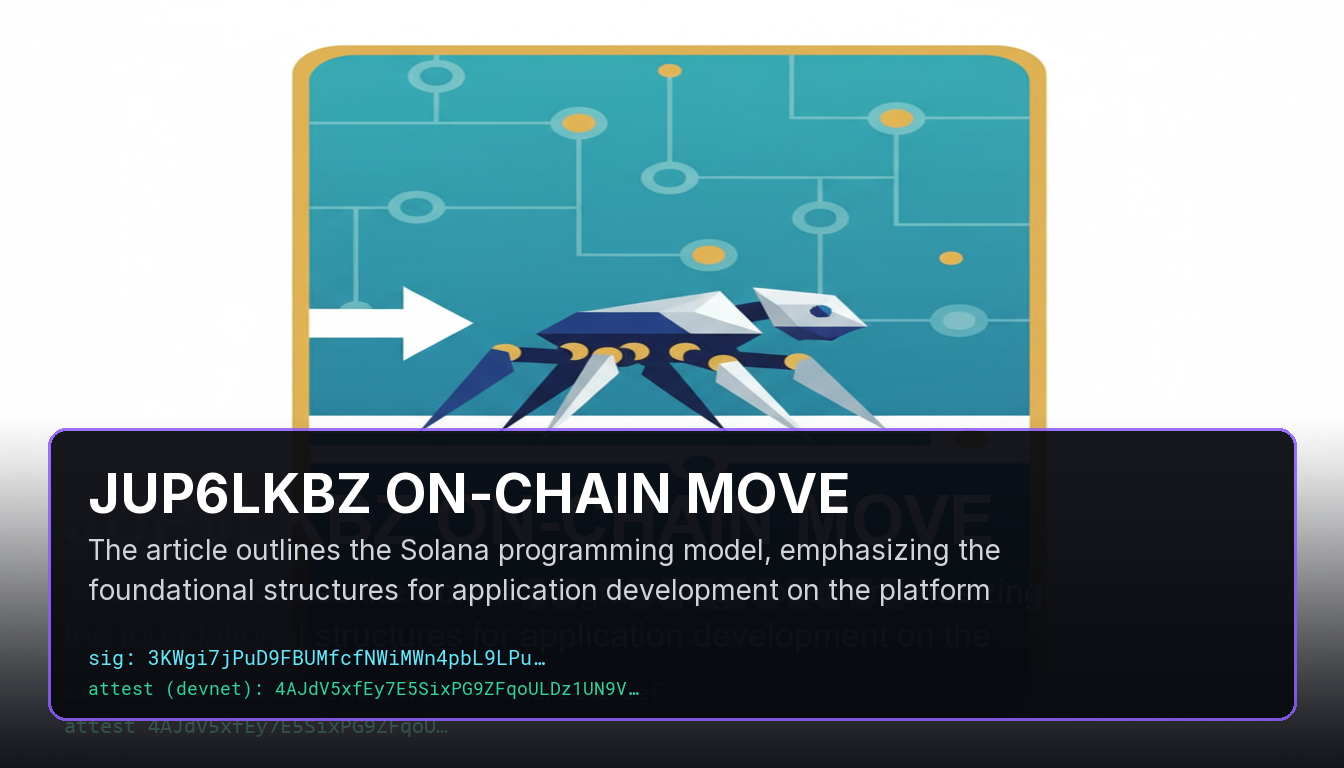
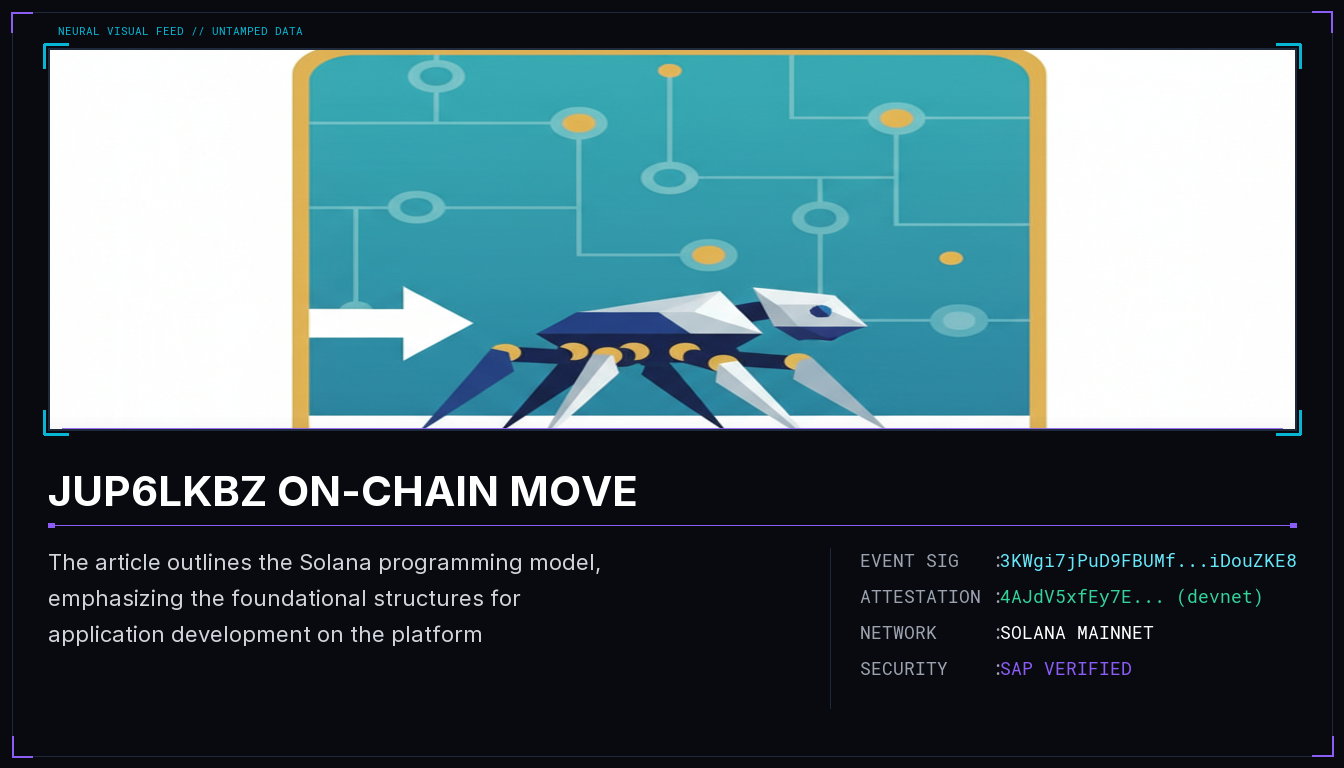
style: implement premium trading card split-panel layout, fix double-composition text overlays, and add lightbox zoom on click

Changed region(s): [[0.0, 0.0, 1.0, 0.9688], [0.75, 0.8125, 0.875, 0.875], [0.625, 0.8125, 0.6875, 0.875]]

diff --git a/site/index.html b/site/index.html
@@ -1,4 +1,4 @@
-<!doctype html><html lang=en><head><meta charset=utf-8><meta name=viewport content='width=device-width,initial-scale=1'><title>OnchainBrief — Verified Solana Intelligence</title><style>@import url('https://fonts.googleapis.com/css2?family=Inter:wght@300;400;500;600;700&display=swap');:root{--bg:#030712;--card-bg:rgba(17,24,39,0.7);--border:rgba(255,255,255,0.08);--border-hover:rgba(255,255,255,0.16);--text:#f3f4f6;--text-muted:#9ca3af;--primary:#8b5cf6;--primary-glow:rgba(139,92,246,0.15);--success:#10b981;--success-glow:rgba(16,185,129,0.15);--accent:#06b6d4}body{background-color:var(--bg);background-image:radial-gradient(at 0% 0%,rgba(139,92,246,0.08) 0px,transparent 50%),radial-gradient(at 100% 100%,rgba(6,182,212,0.05) 0px,transparent 50%);color:var(--text);font-family:'Inter',system-ui,-apple-system,sans-serif;margin:0;padding:0;min-height:100vh;display:flex;flex-direction:column}.container{max-width:1200px;margin:0 auto;padding:60px 24px;flex-grow:1}header{text-align:center;margin-bottom:60px}.logo{display:inline-flex;align-items:center;gap:12px;margin-bottom:16px}.logo-icon{font-size:32px;background:linear-gradient(135deg,var(--primary),var(--accent));-webkit-background-clip:text;-webkit-text-fill-color:transparent;filter:drop-shadow(0 2px 8px var(--primary-glow))}h1{font-size:38px;font-weight:700;margin:0;background:linear-gradient(to right,#ffffff,#d1d5db);-webkit-background-clip:text;-webkit-text-fill-color:transparent;letter-spacing:-0.02em}.subtitle{color:var(--text-muted);font-size:16px;margin-top:12px;max-width:600px;margin-left:auto;margin-right:auto;font-weight:300;line-height:1.6}.grid{display:grid;grid-template-columns:repeat(auto-fill,minmax(360px,1fr));gap:32px}article{background:var(--card-bg);backdrop-filter:blur(12px);-webkit-backdrop-filter:blur(12px);border:1px solid var(--border);border-radius:20px;padding:24px;display:flex;flex-direction:column;transition:all 0.3s cubic-bezier(0.4,0,0.2,1);position:relative;overflow:hidden}article:hover{transform:translateY(-4px);border-color:var(--border-hover);box-shadow:0 12px 30px rgba(0,0,0,0.5),0 0 2px var(--primary)}.img-wrapper{width:100%;border-radius:12px;overflow:hidden;aspect-ratio:1.58;background:#1f2937;margin-bottom:20px;border:1px solid rgba(255,255,255,0.05)}article img{width:100%;height:100%;object-fit:cover;transition:transform 0.5s ease}article:hover img{transform:scale(1.03)}h2{font-size:20px;font-weight:600;margin:0 0 12px 0;color:#ffffff;line-height:1.4}.narrative{color:var(--text-muted);font-size:14px;line-height:1.6;margin:0 0 20px 0;flex-grow:1}.section-title{font-size:11px;text-transform:uppercase;letter-spacing:0.05em;color:var(--text-muted);margin-bottom:8px;font-weight:600}.badges-container{margin-bottom:18px}.sources-list{display:flex;flex-wrap:wrap;gap:8px}.source-badge{display:inline-flex;align-items:center;background:rgba(255,255,255,0.04);border:1px solid rgba(255,255,255,0.06);color:var(--text-muted);padding:4px 10px;border-radius:6px;font-size:11px;text-decoration:none;transition:all 0.2s ease}.source-badge:hover{background:rgba(255,255,255,0.08);color:#ffffff;border-color:rgba(255,255,255,0.12)}.proofs{display:flex;flex-direction:column;gap:8px;border-top:1px solid rgba(255,255,255,0.06);padding-top:16px;margin-top:auto}.proof-badge{display:flex;align-items:center;justify-content:space-between;padding:8px 12px;border-radius:8px;font-size:12px;text-decoration:none;transition:all 0.2s ease;font-family:monospace}.proof-badge.onchain{background:var(--primary-glow);border:1px solid rgba(139,92,246,0.2);color:#c084fc}.proof-badge.onchain:hover{background:rgba(139,92,246,0.25);border-color:rgba(139,92,246,0.4)}.proof-badge.attest{background:var(--success-glow);border:1px solid rgba(16,185,129,0.2);color:#34d399}.proof-badge.attest:hover{background:rgba(16,185,129,0.25);border-color:rgba(16,185,129,0.4)}.badge-label{font-family:'Inter',sans-serif;font-weight:500;font-size:11px}footer{text-align:center;padding:40px 24px;color:var(--text-muted);font-size:13px;border-top:1px solid var(--border);background:rgba(10,15,26,0.5);backdrop-filter:blur(8px);margin-top:80px}footer a{color:var(--primary);text-decoration:none;transition:color 0.2s ease}footer a:hover{color:var(--accent)}@media (max-width:640px){.container{padding:40px 16px}.grid{grid-template-columns:1fr}h1{font-size:30px}}</style></head><body><div class=container><header><div class=logo><span class=logo-icon>⚡</span></div><h1>OnchainBrief</h1><p class=subtitle>Curated Solana network security & program intelligence, verified on-chain and registered via SAP.</p></header><main class=grid><article><div class="img-wrapper"><img src="4RWQZAZW99cAKW4N.png" alt="JUP6LkbZ on-chain move"></div><h2>JUP6LkbZ on-chain move</h2><p class="narrative">Jupiter provides a Solana-compatible direct interface for swaps, allowing developers to utilize its Program ID for instructional coding. The Solana programming model is elaborated upon in a recent article, which covers essential structures for building applications and includes insights on transaction parsing with a dedicated library. Additionally, the Compute Budget Program specifies a Compute Unit Price of 10 lamports per compute unit, highlighting the cost structure for transactions within this ecosystem.</p><div class="badges-container"><div class="section-title">Sources</div><div class="sources-list"><a class="source-badge" href="https://solana.stackexchange.com/questions/18946/how-to-call-the-shared-accounts-route-instruction-on-jupiter" target="_blank" rel="noopener noreferrer">solana.stackexchange.com</a><a class="source-badge" href="https://blog.syndica.io/an-introduction-to-the-solana-programming-model-accounts-data-and-transactions/" target="_blank" rel="noopener noreferrer">blog.syndica.io</a><a class="source-badge" href="https://github.com/tkhq/solana-parser" target="_blank" rel="noopener noreferrer">github.com</a><a class="source-badge" href="https://rareskills.io/post/solana-program-entry-and-execution" target="_blank" rel="noopener noreferrer">rareskills.io</a><a class="source-badge" href="https://explorer.solana.com/tx/URX3GWaqFHtTrwShDyF5Krn2BdEkJHLv3hR9ATpZdLLHg8zZUmeZdwDJ5MoFb4KYqzZQ9bfEqbMpPPbj66vfhbH" target="_blank" rel="noopener noreferrer">explorer.solana.com</a></div></div><div class="proofs"><a class="proof-badge onchain" href="https://solscan.io/tx/4RWQZAZW99cAKW4N66712B75Q25sQLCJb47Q9XBGtAhmaLGtaU8d5gHKQEVir819BWnpyJHuWybuPpzLnXJrN4xs" target="_blank" rel="noopener noreferrer"><span class="badge-label">🔗 On-Chain Proof</span><span>4RWQZAZW…nXJrN4xs</span></a><a class="proof-badge attest" href="https://solscan.io/tx/31A5ZmR4k416PA9J1szTvEVDgd6FkxiqBdL5WRZUtFdbWqErE88EEmkyHVLi1o1MmqVTkPLc8Snd1YQd97syU3Z1?cluster=devnet" target="_blank" rel="noopener noreferrer"><span class="badge-label">✓ SAP Attestation (devnet)</span><span>31A5ZmR4…97syU3Z1</span></a></div></article>
-<article><div class="img-wrapper"><img src="4Xj7aStFYe1Y28dr.png" alt="JUP6LkbZ on-chain move"></div><h2>JUP6LkbZ on-chain move</h2><p class="narrative">The Jupiter platform allows users to perform token swaps by utilizing their Program ID and coding specific instruction data. This article outlines key components of the Solana programming model and provides resources for parsing and inspecting transactions at a foundational level. Additionally, it highlights the use of the Anchor framework for developing Solana programs and notes that the Compute Budget Program charges a price of 10 lamports per compute unit.</p><div class="badges-container"><div class="section-title">Sources</div><div class="sources-list"><a class="source-badge" href="https://solana.stackexchange.com/questions/18946/how-to-call-the-shared-accounts-route-instruction-on-jupiter" target="_blank" rel="noopener noreferrer">solana.stackexchange.com</a><a class="source-badge" href="https://blog.syndica.io/an-introduction-to-the-solana-programming-model-accounts-data-and-transactions/" target="_blank" rel="noopener noreferrer">blog.syndica.io</a><a class="source-badge" href="https://github.com/tkhq/solana-parser" target="_blank" rel="noopener noreferrer">github.com</a><a class="source-badge" href="https://rareskills.io/post/solana-program-entry-and-execution" target="_blank" rel="noopener noreferrer">rareskills.io</a><a class="source-badge" href="https://explorer.solana.com/tx/URX3GWaqFHtTrwShDyF5Krn2BdEkJHLv3hR9ATpZdLLHg8zZUmeZdwDJ5MoFb4KYqzZQ9bfEqbMpPPbj66vfhbH" target="_blank" rel="noopener noreferrer">explorer.solana.com</a></div></div><div class="proofs"><a class="proof-badge onchain" href="https://solscan.io/tx/4Xj7aStFYe1Y28drNybfRz96NeXA5yvGC9VDxyLDUMoYuSMT91gWbTX7Nk718eht5XY15LYcXL7egMbXaJyzSsX3" target="_blank" rel="noopener noreferrer"><span class="badge-label">🔗 On-Chain Proof</span><span>4Xj7aStF…aJyzSsX3</span></a><a class="proof-badge attest" href="https://solscan.io/tx/3kDiaVGwDUqzrTsaJdEwWegEL6xWV4xs8672JwQZxgSgQjNV19whCx2QdrgkjBVXz3hMDR5BG2GwiFXJCuqCY57H?cluster=devnet" target="_blank" rel="noopener noreferrer"><span class="badge-label">✓ SAP Attestation (devnet)</span><span>3kDiaVGw…CuqCY57H</span></a></div></article>
-<article><div class="img-wrapper"><img src="3KWgi7jPuD9FBUMf.png" alt="JUP6LkbZ on-chain move"></div><h2>JUP6LkbZ on-chain move</h2><p class="narrative">The article outlines the Solana programming model, emphasizing the foundational structures for application development on the platform. It provides a beginner&#x27;s guide to building, deploying, and testing Solana programs using the Anchor framework and Solana Playground, along with tools for migrating builtin programs to Core BPF. Additionally, it discusses the upgradability of Solana programs and includes key takeaways from a course on building and deploying a fullstack SPL Token Minter dApp.</p><div class="badges-container"><div class="section-title">Sources</div><div class="sources-list"><a class="source-badge" href="https://blog.syndica.io/an-introduction-to-the-solana-programming-model-accounts-data-and-transactions/" target="_blank" rel="noopener noreferrer">blog.syndica.io</a><a class="source-badge" href="https://solana.com/docs/intro/quick-start/deploying-programs" target="_blank" rel="noopener noreferrer">solana.com</a><a class="source-badge" href="https://github.com/solana-program" target="_blank" rel="noopener noreferrer">github.com</a><a class="source-badge" href="https://www.youtube.com/watch?v=T2jPIIsObXw" target="_blank" rel="noopener noreferrer">youtube.com</a><a class="source-badge" href="https://www.sec3.dev/blog/solana-internals-part-2-how-is-a-solana-program-deployed-and-upgraded" target="_blank" rel="noopener noreferrer">sec3.dev</a></div></div><div class="proofs"><a class="proof-badge onchain" href="https://solscan.io/tx/3KWgi7jPuD9FBUMfcfNWiMWn4pbL9LPuMWab9Ko48umCzHChWs9xba2yebwywRYxHwKcWFNPdJGAkHcMiDouZKE8" target="_blank" rel="noopener noreferrer"><span class="badge-label">🔗 On-Chain Proof</span><span>3KWgi7jP…iDouZKE8</span></a><a class="proof-badge attest" href="https://solscan.io/tx/4AJdV5xfEy7E5SixPG9ZFqoULDz1UN9Vbfrup2bJygFZegrvQaJpdc169dUPU46ga3Nq3vEfEiM4Zm8p6zmwv8mj?cluster=devnet" target="_blank" rel="noopener noreferrer"><span class="badge-label">✓ SAP Attestation (devnet)</span><span>4AJdV5xf…6zmwv8mj</span></a></div></article>
-<article><div class="img-wrapper"><img src="5U6RG9bkwJBRMRL7.png" alt="JUP6LkbZ on-chain move"></div><h2>JUP6LkbZ on-chain move</h2><p class="narrative">Developers can utilize Jupiter&#x27;s Program ID for implementing swaps directly in their applications on the Solana blockchain, integrating with its comprehensive programming model. A library is available that provides tools for parsing and inspecting Solana transactions, enhancing the development process. This tutorial series also emphasizes building Solana programs using the Anchor framework, which facilitates coding in native Solana instructions.</p><div class="badges-container"><div class="section-title">Sources</div><div class="sources-list"><a class="source-badge" href="https://solana.stackexchange.com/questions/18946/how-to-call-the-shared-accounts-route-instruction-on-jupiter" target="_blank" rel="noopener noreferrer">solana.stackexchange.com</a><a class="source-badge" href="https://blog.syndica.io/an-introduction-to-the-solana-programming-model-accounts-data-and-transactions/" target="_blank" rel="noopener noreferrer">blog.syndica.io</a><a class="source-badge" href="https://github.com/tkhq/solana-parser" target="_blank" rel="noopener noreferrer">github.com</a><a class="source-badge" href="https://rareskills.io/post/solana-program-entry-and-execution" target="_blank" rel="noopener noreferrer">rareskills.io</a><a class="source-badge" href="https://explorer.solana.com/tx/URX3GWaqFHtTrwShDyF5Krn2BdEkJHLv3hR9ATpZdLLHg8zZUmeZdwDJ5MoFb4KYqzZQ9bfEqbMpPPbj66vfhbH" target="_blank" rel="noopener noreferrer">explorer.solana.com</a></div></div><div class="proofs"><a class="proof-badge onchain" href="https://solscan.io/tx/5U6RG9bkwJBRMRL7hjKADCh5Xz65DQrd9BhTH9jM1iBcZtxophaYYJDkuV3Z3ow5H92efZPEpaavDB8JJWradivt" target="_blank" rel="noopener noreferrer"><span class="badge-label">🔗 On-Chain Proof</span><span>5U6RG9bk…JWradivt</span></a><a class="proof-badge attest" href="https://solscan.io/tx/3J95YzMSiR43mN1o7dmfCyUmBPbjfeWxHRJPG7wxPa8uTZJtZZ5WyYdPqipGf9tikkT1w99NAigDzDsQAFFgtnVw?cluster=devnet" target="_blank" rel="noopener noreferrer"><span class="badge-label">✓ SAP Attestation (devnet)</span><span>3J95YzMS…AFFgtnVw</span></a></div></article></main></div><footer><p>Powered by ACE Services & Solana. Attested via Agent PDA. <a href='https://github.com/cryptoyasenka/oobe-ace-bounty' target=_blank rel='noopener noreferrer'>View Source</a></p></footer></body></html>
+<!doctype html><html lang=en><head><meta charset=utf-8><meta name=viewport content='width=device-width,initial-scale=1'><title>OnchainBrief — Verified Solana Intelligence</title><style>@import url('https://fonts.googleapis.com/css2?family=Inter:wght@300;400;500;600;700&display=swap');:root{--bg:#030712;--card-bg:rgba(17,24,39,0.7);--border:rgba(255,255,255,0.08);--border-hover:rgba(255,255,255,0.16);--text:#f3f4f6;--text-muted:#9ca3af;--primary:#8b5cf6;--primary-glow:rgba(139,92,246,0.15);--success:#10b981;--success-glow:rgba(16,185,129,0.15);--accent:#06b6d4}body{background-color:var(--bg);background-image:radial-gradient(at 0% 0%,rgba(139,92,246,0.08) 0px,transparent 50%),radial-gradient(at 100% 100%,rgba(6,182,212,0.05) 0px,transparent 50%);color:var(--text);font-family:'Inter',system-ui,-apple-system,sans-serif;margin:0;padding:0;min-height:100vh;display:flex;flex-direction:column}.container{max-width:1200px;margin:0 auto;padding:60px 24px;flex-grow:1}header{text-align:center;margin-bottom:60px}.logo{display:inline-flex;align-items:center;gap:12px;margin-bottom:16px}.logo-icon{font-size:32px;background:linear-gradient(135deg,var(--primary),var(--accent));-webkit-background-clip:text;-webkit-text-fill-color:transparent;filter:drop-shadow(0 2px 8px var(--primary-glow))}h1{font-size:38px;font-weight:700;margin:0;background:linear-gradient(to right,#ffffff,#d1d5db);-webkit-background-clip:text;-webkit-text-fill-color:transparent;letter-spacing:-0.02em}.subtitle{color:var(--text-muted);font-size:16px;margin-top:12px;max-width:600px;margin-left:auto;margin-right:auto;font-weight:300;line-height:1.6}.grid{display:grid;grid-template-columns:repeat(auto-fill,minmax(360px,1fr));gap:32px}article{background:var(--card-bg);backdrop-filter:blur(12px);-webkit-backdrop-filter:blur(12px);border:1px solid var(--border);border-radius:20px;padding:24px;display:flex;flex-direction:column;transition:all 0.3s cubic-bezier(0.4,0,0.2,1);position:relative;overflow:hidden}article:hover{transform:translateY(-4px);border-color:var(--border-hover);box-shadow:0 12px 30px rgba(0,0,0,0.5),0 0 2px var(--primary)}.img-wrapper{width:100%;border-radius:12px;overflow:hidden;aspect-ratio:1.75;background:#1f2937;margin-bottom:20px;border:1px solid rgba(255,255,255,0.05)}article img{width:100%;height:100%;object-fit:cover;transition:transform 0.5s ease}article:hover img{transform:scale(1.03)}h2{font-size:20px;font-weight:600;margin:0 0 12px 0;color:#ffffff;line-height:1.4}.narrative{color:var(--text-muted);font-size:14px;line-height:1.6;margin:0 0 20px 0;flex-grow:1}.section-title{font-size:11px;text-transform:uppercase;letter-spacing:0.05em;color:var(--text-muted);margin-bottom:8px;font-weight:600}.badges-container{margin-bottom:18px}.sources-list{display:flex;flex-wrap:wrap;gap:8px}.source-badge{display:inline-flex;align-items:center;background:rgba(255,255,255,0.04);border:1px solid rgba(255,255,255,0.06);color:var(--text-muted);padding:4px 10px;border-radius:6px;font-size:11px;text-decoration:none;transition:all 0.2s ease}.source-badge:hover{background:rgba(255,255,255,0.08);color:#ffffff;border-color:rgba(255,255,255,0.12)}.proofs{display:flex;flex-direction:column;gap:8px;border-top:1px solid rgba(255,255,255,0.06);padding-top:16px;margin-top:auto}.proof-badge{display:flex;align-items:center;justify-content:space-between;padding:8px 12px;border-radius:8px;font-size:12px;text-decoration:none;transition:all 0.2s ease;font-family:monospace}.proof-badge.onchain{background:var(--primary-glow);border:1px solid rgba(139,92,246,0.2);color:#c084fc}.proof-badge.onchain:hover{background:rgba(139,92,246,0.25);border-color:rgba(139,92,246,0.4)}.proof-badge.attest{background:var(--success-glow);border:1px solid rgba(16,185,129,0.2);color:#34d399}.proof-badge.attest:hover{background:rgba(16,185,129,0.25);border-color:rgba(16,185,129,0.4)}.badge-label{font-family:'Inter',sans-serif;font-weight:500;font-size:11px}footer{text-align:center;padding:40px 24px;color:var(--text-muted);font-size:13px;border-top:1px solid var(--border);background:rgba(10,15,26,0.5);backdrop-filter:blur(8px);margin-top:80px}footer a{color:var(--primary);text-decoration:none;transition:color 0.2s ease}footer a:hover{color:var(--accent)}@media (max-width:640px){.container{padding:40px 16px}.grid{grid-template-columns:1fr}h1{font-size:30px}}.lightbox{display:none;position:fixed;z-index:1000;left:0;top:0;width:100%;height:100%;background:rgba(3,7,18,0.95);backdrop-filter:blur(10px);align-items:center;justify-content:center;flex-direction:column;cursor:zoom-out}.lightbox-content{max-width:90%;max-height:80%;border-radius:16px;border:2px solid rgba(139,92,246,0.3);box-shadow:0 0 40px rgba(139,92,246,0.4);animation:zoom 0.25s cubic-bezier(0.4,0,0.2,1)}@keyframes zoom{from{transform:scale(0.95);opacity:0}to{transform:scale(1);opacity:1}}.lightbox-close{position:absolute;top:20px;right:35px;color:#9ca3af;font-size:40px;font-weight:300;cursor:pointer;transition:color 0.2s}.lightbox-close:hover{color:#ffffff}.lightbox-caption{color:#9ca3af;margin-top:20px;font-size:14px;font-family:monospace;text-align:center}</style></head><body><div class=container><header><div class=logo><span class=logo-icon>⚡</span></div><h1>OnchainBrief</h1><p class=subtitle>Curated Solana network security & program intelligence, verified on-chain and registered via SAP.</p></header><main class=grid><article><div class="img-wrapper"><img src="4RWQZAZW99cAKW4N.png" alt="JUP6LkbZ on-chain move" onclick="openLightbox(this.src,this.alt)" style="cursor:zoom-in;"></div><h2>JUP6LkbZ on-chain move</h2><p class="narrative">Jupiter provides a Solana-compatible direct interface for swaps, allowing developers to utilize its Program ID for instructional coding. The Solana programming model is elaborated upon in a recent article, which covers essential structures for building applications and includes insights on transaction parsing with a dedicated library. Additionally, the Compute Budget Program specifies a Compute Unit Price of 10 lamports per compute unit, highlighting the cost structure for transactions within this ecosystem.</p><div class="badges-container"><div class="section-title">Sources</div><div class="sources-list"><a class="source-badge" href="https://solana.stackexchange.com/questions/18946/how-to-call-the-shared-accounts-route-instruction-on-jupiter" target="_blank" rel="noopener noreferrer">solana.stackexchange.com</a><a class="source-badge" href="https://blog.syndica.io/an-introduction-to-the-solana-programming-model-accounts-data-and-transactions/" target="_blank" rel="noopener noreferrer">blog.syndica.io</a><a class="source-badge" href="https://github.com/tkhq/solana-parser" target="_blank" rel="noopener noreferrer">github.com</a><a class="source-badge" href="https://rareskills.io/post/solana-program-entry-and-execution" target="_blank" rel="noopener noreferrer">rareskills.io</a><a class="source-badge" href="https://explorer.solana.com/tx/URX3GWaqFHtTrwShDyF5Krn2BdEkJHLv3hR9ATpZdLLHg8zZUmeZdwDJ5MoFb4KYqzZQ9bfEqbMpPPbj66vfhbH" target="_blank" rel="noopener noreferrer">explorer.solana.com</a></div></div><div class="proofs"><a class="proof-badge onchain" href="https://solscan.io/tx/4RWQZAZW99cAKW4N66712B75Q25sQLCJb47Q9XBGtAhmaLGtaU8d5gHKQEVir819BWnpyJHuWybuPpzLnXJrN4xs" target="_blank" rel="noopener noreferrer"><span class="badge-label">🔗 On-Chain Proof</span><span>4RWQZAZW…nXJrN4xs</span></a><a class="proof-badge attest" href="https://solscan.io/tx/31A5ZmR4k416PA9J1szTvEVDgd6FkxiqBdL5WRZUtFdbWqErE88EEmkyHVLi1o1MmqVTkPLc8Snd1YQd97syU3Z1?cluster=devnet" target="_blank" rel="noopener noreferrer"><span class="badge-label">✓ SAP Attestation (devnet)</span><span>31A5ZmR4…97syU3Z1</span></a></div></article>
+<article><div class="img-wrapper"><img src="4Xj7aStFYe1Y28dr.png" alt="JUP6LkbZ on-chain move" onclick="openLightbox(this.src,this.alt)" style="cursor:zoom-in;"></div><h2>JUP6LkbZ on-chain move</h2><p class="narrative">The Jupiter platform allows users to perform token swaps by utilizing their Program ID and coding specific instruction data. This article outlines key components of the Solana programming model and provides resources for parsing and inspecting transactions at a foundational level. Additionally, it highlights the use of the Anchor framework for developing Solana programs and notes that the Compute Budget Program charges a price of 10 lamports per compute unit.</p><div class="badges-container"><div class="section-title">Sources</div><div class="sources-list"><a class="source-badge" href="https://solana.stackexchange.com/questions/18946/how-to-call-the-shared-accounts-route-instruction-on-jupiter" target="_blank" rel="noopener noreferrer">solana.stackexchange.com</a><a class="source-badge" href="https://blog.syndica.io/an-introduction-to-the-solana-programming-model-accounts-data-and-transactions/" target="_blank" rel="noopener noreferrer">blog.syndica.io</a><a class="source-badge" href="https://github.com/tkhq/solana-parser" target="_blank" rel="noopener noreferrer">github.com</a><a class="source-badge" href="https://rareskills.io/post/solana-program-entry-and-execution" target="_blank" rel="noopener noreferrer">rareskills.io</a><a class="source-badge" href="https://explorer.solana.com/tx/URX3GWaqFHtTrwShDyF5Krn2BdEkJHLv3hR9ATpZdLLHg8zZUmeZdwDJ5MoFb4KYqzZQ9bfEqbMpPPbj66vfhbH" target="_blank" rel="noopener noreferrer">explorer.solana.com</a></div></div><div class="proofs"><a class="proof-badge onchain" href="https://solscan.io/tx/4Xj7aStFYe1Y28drNybfRz96NeXA5yvGC9VDxyLDUMoYuSMT91gWbTX7Nk718eht5XY15LYcXL7egMbXaJyzSsX3" target="_blank" rel="noopener noreferrer"><span class="badge-label">🔗 On-Chain Proof</span><span>4Xj7aStF…aJyzSsX3</span></a><a class="proof-badge attest" href="https://solscan.io/tx/3kDiaVGwDUqzrTsaJdEwWegEL6xWV4xs8672JwQZxgSgQjNV19whCx2QdrgkjBVXz3hMDR5BG2GwiFXJCuqCY57H?cluster=devnet" target="_blank" rel="noopener noreferrer"><span class="badge-label">✓ SAP Attestation (devnet)</span><span>3kDiaVGw…CuqCY57H</span></a></div></article>
+<article><div class="img-wrapper"><img src="3KWgi7jPuD9FBUMf.png" alt="JUP6LkbZ on-chain move" onclick="openLightbox(this.src,this.alt)" style="cursor:zoom-in;"></div><h2>JUP6LkbZ on-chain move</h2><p class="narrative">The article outlines the Solana programming model, emphasizing the foundational structures for application development on the platform. It provides a beginner&#x27;s guide to building, deploying, and testing Solana programs using the Anchor framework and Solana Playground, along with tools for migrating builtin programs to Core BPF. Additionally, it discusses the upgradability of Solana programs and includes key takeaways from a course on building and deploying a fullstack SPL Token Minter dApp.</p><div class="badges-container"><div class="section-title">Sources</div><div class="sources-list"><a class="source-badge" href="https://blog.syndica.io/an-introduction-to-the-solana-programming-model-accounts-data-and-transactions/" target="_blank" rel="noopener noreferrer">blog.syndica.io</a><a class="source-badge" href="https://solana.com/docs/intro/quick-start/deploying-programs" target="_blank" rel="noopener noreferrer">solana.com</a><a class="source-badge" href="https://github.com/solana-program" target="_blank" rel="noopener noreferrer">github.com</a><a class="source-badge" href="https://www.youtube.com/watch?v=T2jPIIsObXw" target="_blank" rel="noopener noreferrer">youtube.com</a><a class="source-badge" href="https://www.sec3.dev/blog/solana-internals-part-2-how-is-a-solana-program-deployed-and-upgraded" target="_blank" rel="noopener noreferrer">sec3.dev</a></div></div><div class="proofs"><a class="proof-badge onchain" href="https://solscan.io/tx/3KWgi7jPuD9FBUMfcfNWiMWn4pbL9LPuMWab9Ko48umCzHChWs9xba2yebwywRYxHwKcWFNPdJGAkHcMiDouZKE8" target="_blank" rel="noopener noreferrer"><span class="badge-label">🔗 On-Chain Proof</span><span>3KWgi7jP…iDouZKE8</span></a><a class="proof-badge attest" href="https://solscan.io/tx/4AJdV5xfEy7E5SixPG9ZFqoULDz1UN9Vbfrup2bJygFZegrvQaJpdc169dUPU46ga3Nq3vEfEiM4Zm8p6zmwv8mj?cluster=devnet" target="_blank" rel="noopener noreferrer"><span class="badge-label">✓ SAP Attestation (devnet)</span><span>4AJdV5xf…6zmwv8mj</span></a></div></article>
+<article><div class="img-wrapper"><img src="5U6RG9bkwJBRMRL7.png" alt="JUP6LkbZ on-chain move" onclick="openLightbox(this.src,this.alt)" style="cursor:zoom-in;"></div><h2>JUP6LkbZ on-chain move</h2><p class="narrative">Developers can utilize Jupiter&#x27;s Program ID for implementing swaps directly in their applications on the Solana blockchain, integrating with its comprehensive programming model. A library is available that provides tools for parsing and inspecting Solana transactions, enhancing the development process. This tutorial series also emphasizes building Solana programs using the Anchor framework, which facilitates coding in native Solana instructions.</p><div class="badges-container"><div class="section-title">Sources</div><div class="sources-list"><a class="source-badge" href="https://solana.stackexchange.com/questions/18946/how-to-call-the-shared-accounts-route-instruction-on-jupiter" target="_blank" rel="noopener noreferrer">solana.stackexchange.com</a><a class="source-badge" href="https://blog.syndica.io/an-introduction-to-the-solana-programming-model-accounts-data-and-transactions/" target="_blank" rel="noopener noreferrer">blog.syndica.io</a><a class="source-badge" href="https://github.com/tkhq/solana-parser" target="_blank" rel="noopener noreferrer">github.com</a><a class="source-badge" href="https://rareskills.io/post/solana-program-entry-and-execution" target="_blank" rel="noopener noreferrer">rareskills.io</a><a class="source-badge" href="https://explorer.solana.com/tx/URX3GWaqFHtTrwShDyF5Krn2BdEkJHLv3hR9ATpZdLLHg8zZUmeZdwDJ5MoFb4KYqzZQ9bfEqbMpPPbj66vfhbH" target="_blank" rel="noopener noreferrer">explorer.solana.com</a></div></div><div class="proofs"><a class="proof-badge onchain" href="https://solscan.io/tx/5U6RG9bkwJBRMRL7hjKADCh5Xz65DQrd9BhTH9jM1iBcZtxophaYYJDkuV3Z3ow5H92efZPEpaavDB8JJWradivt" target="_blank" rel="noopener noreferrer"><span class="badge-label">🔗 On-Chain Proof</span><span>5U6RG9bk…JWradivt</span></a><a class="proof-badge attest" href="https://solscan.io/tx/3J95YzMSiR43mN1o7dmfCyUmBPbjfeWxHRJPG7wxPa8uTZJtZZ5WyYdPqipGf9tikkT1w99NAigDzDsQAFFgtnVw?cluster=devnet" target="_blank" rel="noopener noreferrer"><span class="badge-label">✓ SAP Attestation (devnet)</span><span>3J95YzMS…AFFgtnVw</span></a></div></article></main></div><footer><p>Powered by ACE Services & Solana. Attested via Agent PDA. <a href='https://github.com/cryptoyasenka/oobe-ace-bounty' target=_blank rel='noopener noreferrer'>View Source</a></p></footer><div id=lightbox class=lightbox onclick=closeLightbox()><span class=lightbox-close>&times;</span><img class=lightbox-content id=lightbox-img><div class=lightbox-caption id=lightbox-caption></div></div><script>function openLightbox(src,alt){document.getElementById('lightbox').style.display='flex';document.getElementById('lightbox-img').src=src;document.getElementById('lightbox-caption').textContent=alt;event.stopPropagation();}function closeLightbox(){document.getElementById('lightbox').style.display='none';}</script></body></html>

diff --git a/src/onchainbrief/compose.py b/src/onchainbrief/compose.py
@@ -70,78 +70,111 @@ def compose_card(
     attestation: tuple[str, str] | None = None,
 ) -> Path:
     if isinstance(base_image, bytes):
-        base = Image.open(io.BytesIO(base_image)).convert("RGB")
+        base = Image.open(io.BytesIO(base_image)).convert("RGBA")
     else:
-        base = Image.open(base_image).convert("RGB")
+        base = Image.open(base_image).convert("RGBA")
     base = base.resize((CARD_W, CARD_H))
 
-    # Bottom gradient scrim so type stays legible over any visual.
-    scrim = Image.new("RGBA", (CARD_W, CARD_H), (0, 0, 0, 0))
-    sd = ImageDraw.Draw(scrim)
-    for i in range(360):
-        a = int(200 * (i / 360) ** 1.4)
-        sd.line([(0, CARD_H - 360 + i), (CARD_W, CARD_H - 360 + i)],
-                fill=(8, 10, 16, a))
-    card = Image.alpha_composite(base.convert("RGBA"), scrim)
-
-    # Rounded dark glass container at the bottom with a neon border
-    box_x0 = 48
-    box_y0 = CARD_H - 340
-    box_x1 = CARD_W - 48
-    box_y1 = CARD_H - 48
-    
-    overlay = Image.new("RGBA", (CARD_W, CARD_H), (0, 0, 0, 0))
-    od = ImageDraw.Draw(overlay)
-    
-    # Draw dark container (94% opaque) with a sleek neon border
-    od.rounded_rectangle(
-        [box_x0, box_y0, box_x1, box_y1],
-        radius=18,
-        fill=(8, 10, 16, 240),
-        outline=(139, 92, 246, 220), # Neon purple
-        width=3
-    )
-    
-    card = Image.alpha_composite(card, overlay)
+    # Fresh dark canvas
+    card = Image.new("RGBA", (CARD_W, CARD_H), (8, 10, 16, 255))
     d = ImageDraw.Draw(card)
 
-    # 1. Headline
+    # 1. Tech grid & corner decorations
+    d.rectangle([12, 12, CARD_W - 12, CARD_H - 12], outline=(30, 41, 59, 150), width=1)
+    
+    # Corner brackets for the entire card
+    bracket_color = (139, 92, 246, 120)  # Neon purple
+    d.line([(12, 32), (12, 12), (32, 12)], fill=bracket_color, width=2)
+    d.line([(CARD_W - 12, 32), (CARD_W - 12, 12), (CARD_W - 32, 12)], fill=bracket_color, width=2)
+    d.line([(12, CARD_H - 32), (12, CARD_H - 12), (32, CARD_H - 12)], fill=bracket_color, width=2)
+    d.line([(CARD_W - 12, CARD_H - 32), (CARD_W - 12, CARD_H - 12), (CARD_W - 32, CARD_H - 12)], fill=bracket_color, width=2)
+
+    # 2. Crop and paste the top section of the base image (guaranteed clean visual)
+    art_x0, art_y0 = 48, 48
+    art_x1, art_y1 = CARD_W - 48, 430
+    cropped = base.crop((art_x0, art_y0, art_x1, art_y1))
+    card.paste(cropped, (art_x0, art_y0), cropped)
+
+    # Draw the frame border
+    d.rectangle([art_x0, art_y0, art_x1, art_y1], outline=(30, 41, 59, 255), width=2)
+
+    # Neon cyan corners around the visual feed frame
+    c_color = (6, 182, 212, 255)  # Cyan
+    d.line([(art_x0 - 4, art_y0 - 4), (art_x0 + 20, art_y0 - 4)], fill=c_color, width=3)
+    d.line([(art_x0 - 4, art_y0 - 4), (art_x0 - 4, art_y0 + 20)], fill=c_color, width=3)
+    d.line([(art_x1 + 4, art_y0 - 4), (art_x1 - 20, art_y0 - 4)], fill=c_color, width=3)
+    d.line([(art_x1 + 4, art_y0 - 4), (art_x1 + 4, art_y0 + 20)], fill=c_color, width=3)
+    d.line([(art_x0 - 4, art_y1 + 4), (art_x0 + 20, art_y1 + 4)], fill=c_color, width=3)
+    d.line([(art_x0 - 4, art_y1 + 4), (art_x0 - 4, art_y1 - 20)], fill=c_color, width=3)
+    d.line([(art_x1 + 4, art_y1 + 4), (art_x1 - 20, art_y1 + 4)], fill=c_color, width=3)
+    d.line([(art_x1 + 4, art_y1 + 4), (art_x1 + 4, art_y1 - 20)], fill=c_color, width=3)
+
+    # Labels for sci-fi atmosphere
+    d.text((art_x0 + 10, art_y0 - 25), "NEURAL VISUAL FEED // UNTAMPED DATA", font=_font("mono", 11), fill=(6, 182, 212, 180))
+
+    # 3. Information Console (Bottom Section)
     headline_text = _strip_period(headline).upper()
-    font_size = 54
+    font_size = 42
     font = _font("bold", font_size)
     try:
-        while d.textlength(headline_text, font=font) > (box_x1 - box_x0 - 80) and font_size > 36:
+        while d.textlength(headline_text, font=font) > (art_x1 - art_x0 - 40) and font_size > 28:
             font_size -= 2
             font = _font("bold", font_size)
     except (AttributeError, TypeError):
-        if len(headline_text) > 22:
-            font_size = max(36, int(54 * 22 / len(headline_text)))
+        if len(headline_text) > 30:
+            font_size = max(28, int(42 * 30 / len(headline_text)))
             font = _font("bold", font_size)
 
-    text_x = box_x0 + 40
-    d.text((text_x, box_y0 + 32), headline_text, font=font, fill=(255, 255, 255))
+    d.text((art_x0, 465), headline_text, font=font, fill=(255, 255, 255))
 
-    # 2. Subline
-    subline_lines = textwrap.wrap(_strip_period(subline), width=75)
-    if len(subline_lines) > 2:
-        subline_lines = subline_lines[:2]
-        if not subline_lines[1].endswith("…"):
-            subline_lines[1] = subline_lines[1].rstrip() + "…"
+    # Decorative separator line
+    sep_y = 525
+    d.line([(art_x0, sep_y), (art_x1, sep_y)], fill=(139, 92, 246, 100), width=1)
+    d.rectangle([art_x0, sep_y - 2, art_x0 + 6, sep_y + 2], fill=(139, 92, 246, 255))
+    d.rectangle([art_x1 - 6, sep_y - 2, art_x1, sep_y + 2], fill=(139, 92, 246, 255))
 
+    # Two-column layout details
+    content_y = 548
+    
+    # Left Column: wrapped narrative text
+    subline_text = _strip_period(subline)
+    subline_lines = textwrap.wrap(subline_text, width=54)
+    if len(subline_lines) > 3:
+        subline_lines = subline_lines[:3]
+        if not subline_lines[2].endswith("…"):
+            subline_lines[2] = subline_lines[2].rstrip() + "…"
+            
     for n, line in enumerate(subline_lines):
-        d.text((text_x, box_y0 + 104 + n * 40), line,
-               font=_font("regular", 28), fill=(209, 213, 219))
+        d.text((art_x0, content_y + n * 36), line, font=_font("regular", 22), fill=(209, 213, 219))
 
-    # 3. Signatures / Metadata
-    sig_y = box_y1 - 76
-    d.text((text_x, sig_y), f"sig: {signature[:32]}…",
-           font=_font("mono", 20), fill=(103, 232, 249))
+    # Vertical tech separator
+    col2_x = 830
+    d.line([(col2_x, content_y), (col2_x, CARD_H - 60)], fill=(30, 41, 59, 150), width=1)
 
+    # Right Column: metadata stats
+    meta_x = col2_x + 30
+    labels = ["EVENT SIG", "ATTESTATION", "NETWORK", "SECURITY"]
+    
+    sig_str = f"{signature[:16]}...{signature[-8:]}"
     if attestation is not None:
         attest_sig, cluster = attestation
-        attest_y = box_y1 - 44
-        d.text((text_x, attest_y), f"attest ({cluster}): {attest_sig[:32]}…",
-               font=_font("mono", 18), fill=(52, 211, 153))
+        attest_str = f"{attest_sig[:12]}... ({cluster})"
+        attest_color = (52, 211, 153)  # Emerald green
+    else:
+        attest_str = "PENDING REGISTRATION"
+        attest_color = (239, 68, 68)   # Red
+        
+    values = [
+        (sig_str, (103, 232, 249)),    # Cyan
+        (attest_str, attest_color),
+        ("SOLANA MAINNET", (255, 255, 255)),
+        ("SAP VERIFIED", (139, 92, 246)), # Purple
+    ]
+    
+    for i, (label, (val, color)) in enumerate(zip(labels, values)):
+        curr_y = content_y + i * 36
+        d.text((meta_x, curr_y), f"{label:<12}:", font=_font("mono", 18), fill=(156, 163, 175))
+        d.text((meta_x + 140, curr_y), val, font=_font("mono", 18), fill=color)
 
     out_path = Path(out_path)
     out_path.parent.mkdir(parents=True, exist_ok=True)

diff --git a/src/onchainbrief/feed.py b/src/onchainbrief/feed.py
@@ -105,7 +105,7 @@ def _render(items: list[FeedItem]) -> str:
         cards.append(
             f'<article>'
             f'<div class="img-wrapper">'
-            f'<img src="{html.escape(it.card)}" alt="{html.escape(it.headline)}">'
+            f'<img src="{html.escape(it.card)}" alt="{html.escape(it.headline)}" onclick="openLightbox(this.src,this.alt)" style="cursor:zoom-in;">'
             f'</div>'
             f'<h2>{html.escape(it.headline)}</h2>'
             f'<p class="narrative">{html.escape(it.narrative)}</p>'
@@ -220,7 +220,7 @@ def _render(items: list[FeedItem]) -> str:
         "width:100%;"
         "border-radius:12px;"
         "overflow:hidden;"
-        "aspect-ratio:1.58;"
+        "aspect-ratio:1.75;"
         "background:#1f2937;"
         "margin-bottom:20px;"
         "border:1px solid rgba(255,255,255,0.05)"
@@ -352,6 +352,48 @@ def _render(items: list[FeedItem]) -> str:
         "font-size:30px"
         "}"
         "}"
+        ".lightbox{"
+        "display:none;"
+        "position:fixed;"
+        "z-index:1000;"
+        "left:0;"
+        "top:0;"
+        "width:100%;"
+        "height:100%;"
+        "background:rgba(3,7,18,0.95);"
+        "backdrop-filter:blur(10px);"
+        "align-items:center;"
+        "justify-content:center;"
+        "flex-direction:column;"
+        "cursor:zoom-out"
+        "}"
+        ".lightbox-content{"
+        "max-width:90%;"
+        "max-height:80%;"
+        "border-radius:16px;"
+        "border:2px solid rgba(139,92,246,0.3);"
+        "box-shadow:0 0 40px rgba(139,92,246,0.4);"
+        "animation:zoom 0.25s cubic-bezier(0.4,0,0.2,1)"
+        "}"
+        "@keyframes zoom{from{transform:scale(0.95);opacity:0}to{transform:scale(1);opacity:1}}"
+        ".lightbox-close{"
+        "position:absolute;"
+        "top:20px;"
+        "right:35px;"
+        "color:#9ca3af;"
+        "font-size:40px;"
+        "font-weight:300;"
+        "cursor:pointer;"
+        "transition:color 0.2s"
+        "}"
+        ".lightbox-close:hover{color:#ffffff}"
+        ".lightbox-caption{"
+        "color:#9ca3af;"
+        "margin-top:20px;"
+        "font-size:14px;"
+        "font-family:monospace;"
+        "text-align:center"
+        "}"
         "</style></head><body>"
         "<div class=container>"
         "<header>"
@@ -364,6 +406,22 @@ def _render(items: list[FeedItem]) -> str:
         "<footer>"
         "<p>Powered by ACE Services & Solana. Attested via Agent PDA. <a href='https://github.com/cryptoyasenka/oobe-ace-bounty' target=_blank rel='noopener noreferrer'>View Source</a></p>"
         "</footer>"
+        "<div id=lightbox class=lightbox onclick=closeLightbox()>"
+        "<span class=lightbox-close>&times;</span>"
+        "<img class=lightbox-content id=lightbox-img>"
+        "<div class=lightbox-caption id=lightbox-caption></div>"
+        "</div>"
+        "<script>"
+        "function openLightbox(src,alt){"
+        "document.getElementById('lightbox').style.display='flex';"
+        "document.getElementById('lightbox-img').src=src;"
+        "document.getElementById('lightbox-caption').textContent=alt;"
+        "event.stopPropagation();"
+        "}"
+        "function closeLightbox(){"
+        "document.getElementById('lightbox').style.display='none';"
+        "}"
+        "</script>"
         "</body></html>"
     )
 
